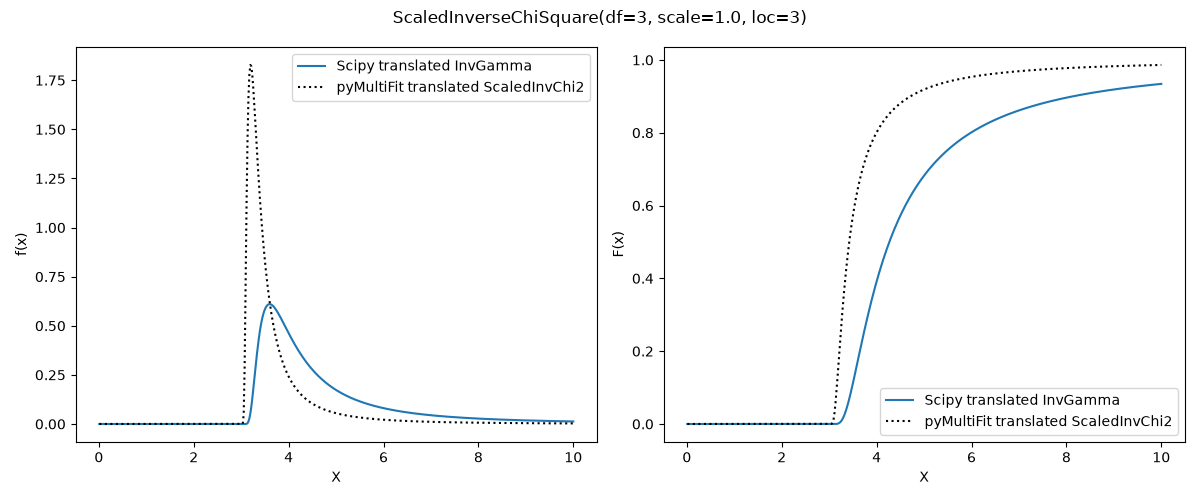
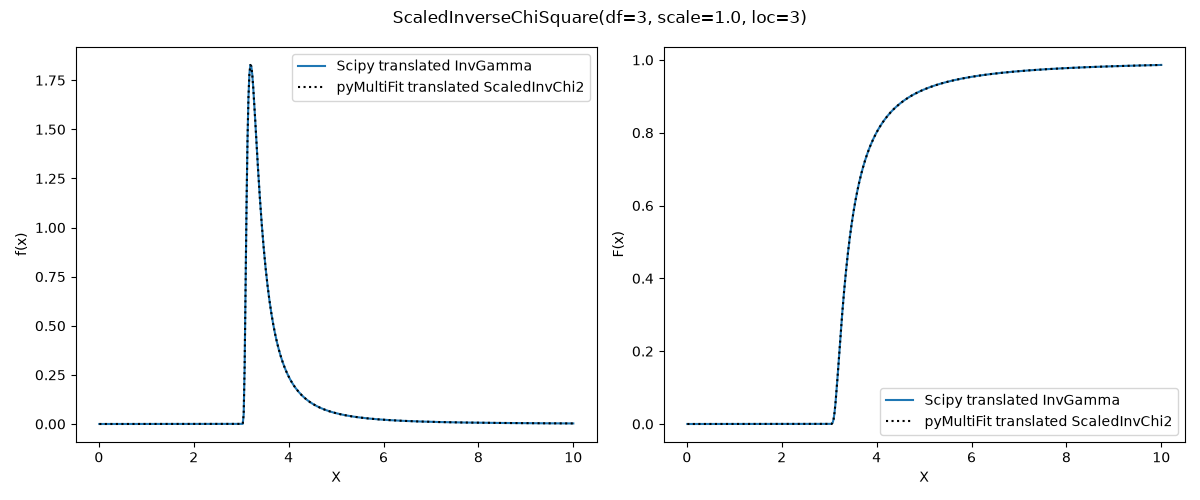
[docstrings-minor-4]
1. corrected examples for `scaledinvchi2.py`, and docstrings for `johnsonSU_d.py`
2. added `studentsT_d.rst`

diff --git a/examples/basic/scaledinvchi2.py b/examples/basic/scaledinvchi2.py
@@ -8,20 +8,20 @@ from pymultifit.distributions import ScaledInverseChiSquareDistribution
 
 x_values = np.linspace(start=0.01, stop=10, num=500)
 
-df1, scale1, loc1 = 3.0, 1.0, 0.0
+df1, loc1, scale1 = 3.0, 0.0, 1.0
 a1 = df1 / 2.0
-scipy_scale1 = (df1 * scale1) / 2.0
+scipy_scale1 = scale1 / 2
 
-y_multifit = ScaledInverseChiSquareDistribution(df=df1, scale=scale1, loc=loc1, normalize=True)
+y_multifit = ScaledInverseChiSquareDistribution(df=df1, loc=loc1, scale=scale1, normalize=True)
 y_scipy = invgamma
 
 f, ax = plt.subplots(1, 2, figsize=(12, 5))
 
-ax[0].plot(x_values, y_scipy.pdf(x_values, a=a1, scale=scipy_scale1, loc=loc1), label="Scipy InvGamma")
+ax[0].plot(x_values, y_scipy.pdf(x_values, a=a1, loc=loc1, scale=scipy_scale1), label="Scipy InvGamma")
 ax[0].plot(x_values, y_multifit.pdf(x_values), "k:", label="pyMultiFit ScaledInvChi2")
 ax[0].set_ylabel("f(x)")
 
-ax[1].plot(x_values, y_scipy.cdf(x_values, a=a1, scale=scipy_scale1, loc=loc1), label="Scipy InvGamma")
+ax[1].plot(x_values, y_scipy.cdf(x_values, a=a1, loc=loc1, scale=scipy_scale1), label="Scipy InvGamma")
 ax[1].plot(x_values, y_multifit.cdf(x_values), "k:", label="pyMultiFit ScaledInvChi2")
 ax[1].set_ylabel("F(x)")
 
@@ -33,19 +33,19 @@ for i in ax:
 plt.tight_layout()
 plt.savefig("./../../images/scaled_inv_chi2_example1.png")
 
-df2, scale2, loc2 = 3.0, 1.0, 3.0
+df2, loc2, scale2 = 3.0, 3.0, 1.0
 a2 = df2 / 2.0
-scipy_scale2 = (df2 * scale2) / 2.0
+scipy_scale2 = scale2 / 2.0
 
-y_multifit = ScaledInverseChiSquareDistribution(df=df2, scale=scale2, loc=loc2, normalize=True)
+y_multifit = ScaledInverseChiSquareDistribution(df=df2, loc=loc2, scale=scale2, normalize=True)
 
 f, ax = plt.subplots(1, 2, figsize=(12, 5))
 
-ax[0].plot(x_values, y_scipy.pdf(x_values, a=a2, scale=scipy_scale2, loc=loc2), label="Scipy translated InvGamma")
+ax[0].plot(x_values, y_scipy.pdf(x_values, a=a2, loc=loc2, scale=scipy_scale2), label="Scipy translated InvGamma")
 ax[0].plot(x_values, y_multifit.pdf(x_values), "k:", label="pyMultiFit translated ScaledInvChi2")
 ax[0].set_ylabel("f(x)")
 
-ax[1].plot(x_values, y_scipy.cdf(x_values, a=a2, scale=scipy_scale2, loc=loc2), label="Scipy translated InvGamma")
+ax[1].plot(x_values, y_scipy.cdf(x_values, a=a2, loc=loc2, scale=scipy_scale2), label="Scipy translated InvGamma")
 ax[1].plot(x_values, y_multifit.cdf(x_values), "k:", label="pyMultiFit translated ScaledInvChi2")
 ax[1].set_ylabel("F(x)")
 

diff --git a/src/pymultifit/distributions/johnsonSU_d.py b/src/pymultifit/distributions/johnsonSU_d.py
@@ -34,7 +34,7 @@ class JohnsonSUDistribution(BaseDistribution):
     --------
     Importing libraries
 
-    .. literalinclude:: ../../../examples/basic/johnsonsu.py
+    .. literalinclude:: ../../../examples/basic/johnsonSU.py
        :language: python
        :linenos:
        :lineno-start: 3
@@ -42,7 +42,7 @@ class JohnsonSUDistribution(BaseDistribution):
 
     Generating a standard normalized :class:`~.JohnsonSUDistribution` with ``pyMultiFit`` and ``scipy``.
 
-    .. literalinclude:: ../../../examples/basic/johnsonsu.py
+    .. literalinclude:: ../../../examples/basic/johnsonSU.py
        :language: python
        :linenos:
        :lineno-start: 9
@@ -50,31 +50,31 @@ class JohnsonSUDistribution(BaseDistribution):
 
     Plotting **PDF** and **CDF**
 
-    .. literalinclude:: ../../../examples/basic/johnsonsu.py
+    .. literalinclude:: ../../../examples/basic/johnsonSU.py
        :language: python
        :linenos:
        :lineno-start: 14
        :lines: 14-29
 
-    .. image:: ../../../images/johnsonsu_example1.png
+    .. image:: ../../../images/johnsonSU_example1.png
        :alt: Johnson SU distribution (standard)
        :align: center
 
     Generating an unnormalized scaled :class:`~.JohnsonSUDistribution` with ``amplitude = 5.0``.
 
-    .. literalinclude:: ../../../examples/basic/johnsonsu.py
+    .. literalinclude:: ../../../examples/basic/johnsonSU.py
        :language: python
        :lineno-start: 32
        :lines: 32
 
     Plotting **PDF** and **CDF**
 
-    .. literalinclude:: ../../../examples/basic/johnsonsu.py
+    .. literalinclude:: ../../../examples/basic/johnsonSU.py
        :language: python
        :lineno-start: 34
        :lines: 34-49
 
-    .. image:: ../../../images/johnsonsu_example2.png
+    .. image:: ../../../images/johnsonSU_example2.png
        :alt: Johnson SU distribution (scaled amplitude)
        :align: center
     """

diff --git a/src/pymultifit/distributions/generalized/studentsT_d.py b/src/pymultifit/distributions/generalized/studentsT_d.py
@@ -33,7 +33,7 @@ class StudentsTDistribution(BaseDistribution):
     --------
     Importing libraries:
 
-    .. literalinclude:: ../../../examples/basic/gaussian.py
+    .. literalinclude:: ../../../examples/basic/studentsT.py
        :language: python
        :linenos:
        :lineno-start: 3
@@ -42,7 +42,7 @@ class StudentsTDistribution(BaseDistribution):
     Generating a heavy-tailed Student's t-distribution (:math:`v=1, \mu=0, \sigma=1`), equivalent to a Cauchy distribution,
     with ``pyMultiFit`` and ``scipy``:
 
-    .. literalinclude:: ../../../examples/basic/studentsT_d.py
+    .. literalinclude:: ../../../examples/basic/studentsT.py
        :language: python
        :linenos:
        :lineno-start: 9
@@ -50,7 +50,7 @@ class StudentsTDistribution(BaseDistribution):
 
     Plotting **PDF** and **CDF**:
 
-    .. literalinclude:: ../../../examples/basic/studentsT_d.py
+    .. literalinclude:: ../../../examples/basic/studentsT.py
        :language: python
        :linenos:
        :lineno-start: 14
@@ -62,14 +62,14 @@ class StudentsTDistribution(BaseDistribution):
 
     Generating a scaled and translated Student's t-distribution approaching a Gaussian (:math:`v=100, \mu=-3, \sigma=2.5, A=2.0`):
 
-    .. literalinclude:: ../../../examples/basic/studentsT_d.py
+    .. literalinclude:: ../../../examples/basic/studentsT.py
        :language: python
        :lineno-start: 32
        :lines: 32
 
     Plotting **PDF** and **CDF**:
 
-    .. literalinclude:: ../../../examples/basic/studentsT_d.py
+    .. literalinclude:: ../../../examples/basic/studentsT.py
        :language: python
        :lineno-start: 34
        :lines: 34-49

diff --git a/docs/source/distributions/studentsT_d.rst b/docs/source/distributions/studentsT_d.rst
@@ -1,0 +1,27 @@
+Students T Distribution
+--------------------------------------
+
+.. autoclass:: pymultifit.distributions.generalized.studentsT_d.StudentsTDistribution
+   :members:
+   :inherited-members:
+   :show-inheritance:
+   :member-order: groupwise
+
+This class internally utilizes the following functions from :mod:`~pymultifit.distributions.utilities_d` module:
+
+* :func:`~pymultifit.distributions.utilities_d.students_t_pdf_`
+* :func:`~pymultifit.distributions.utilities_d.students_t_pdf_`
+
+Recommended Import
+------------------
+
+.. code-block:: python
+
+   from pymultifit.distributions import StudentsTDistribution
+
+Full Import
+-----------
+
+.. code-block:: python
+
+   from pymultifit.distributions.generalized.studentsT_d import StudentsTDistribution

diff --git a/docs/source/distributions/_distributions.rst b/docs/source/distributions/_distributions.rst
@@ -122,6 +122,7 @@ Non-distribution function
    qExponentialDistribution <qExponential_d>
    ScaledInverseChiSquareDistribution <scaledInvChiSquare_d>
    SkewNormalDistribution   <skewNormal_d>
+   StudentsTDistribution   <studentsT_d>
    SymGeneralizedNormalDistribution <genNorm_d>
    UniformDistribution      <uniform_d>
    DistributionUtilities    <utilities_d>
